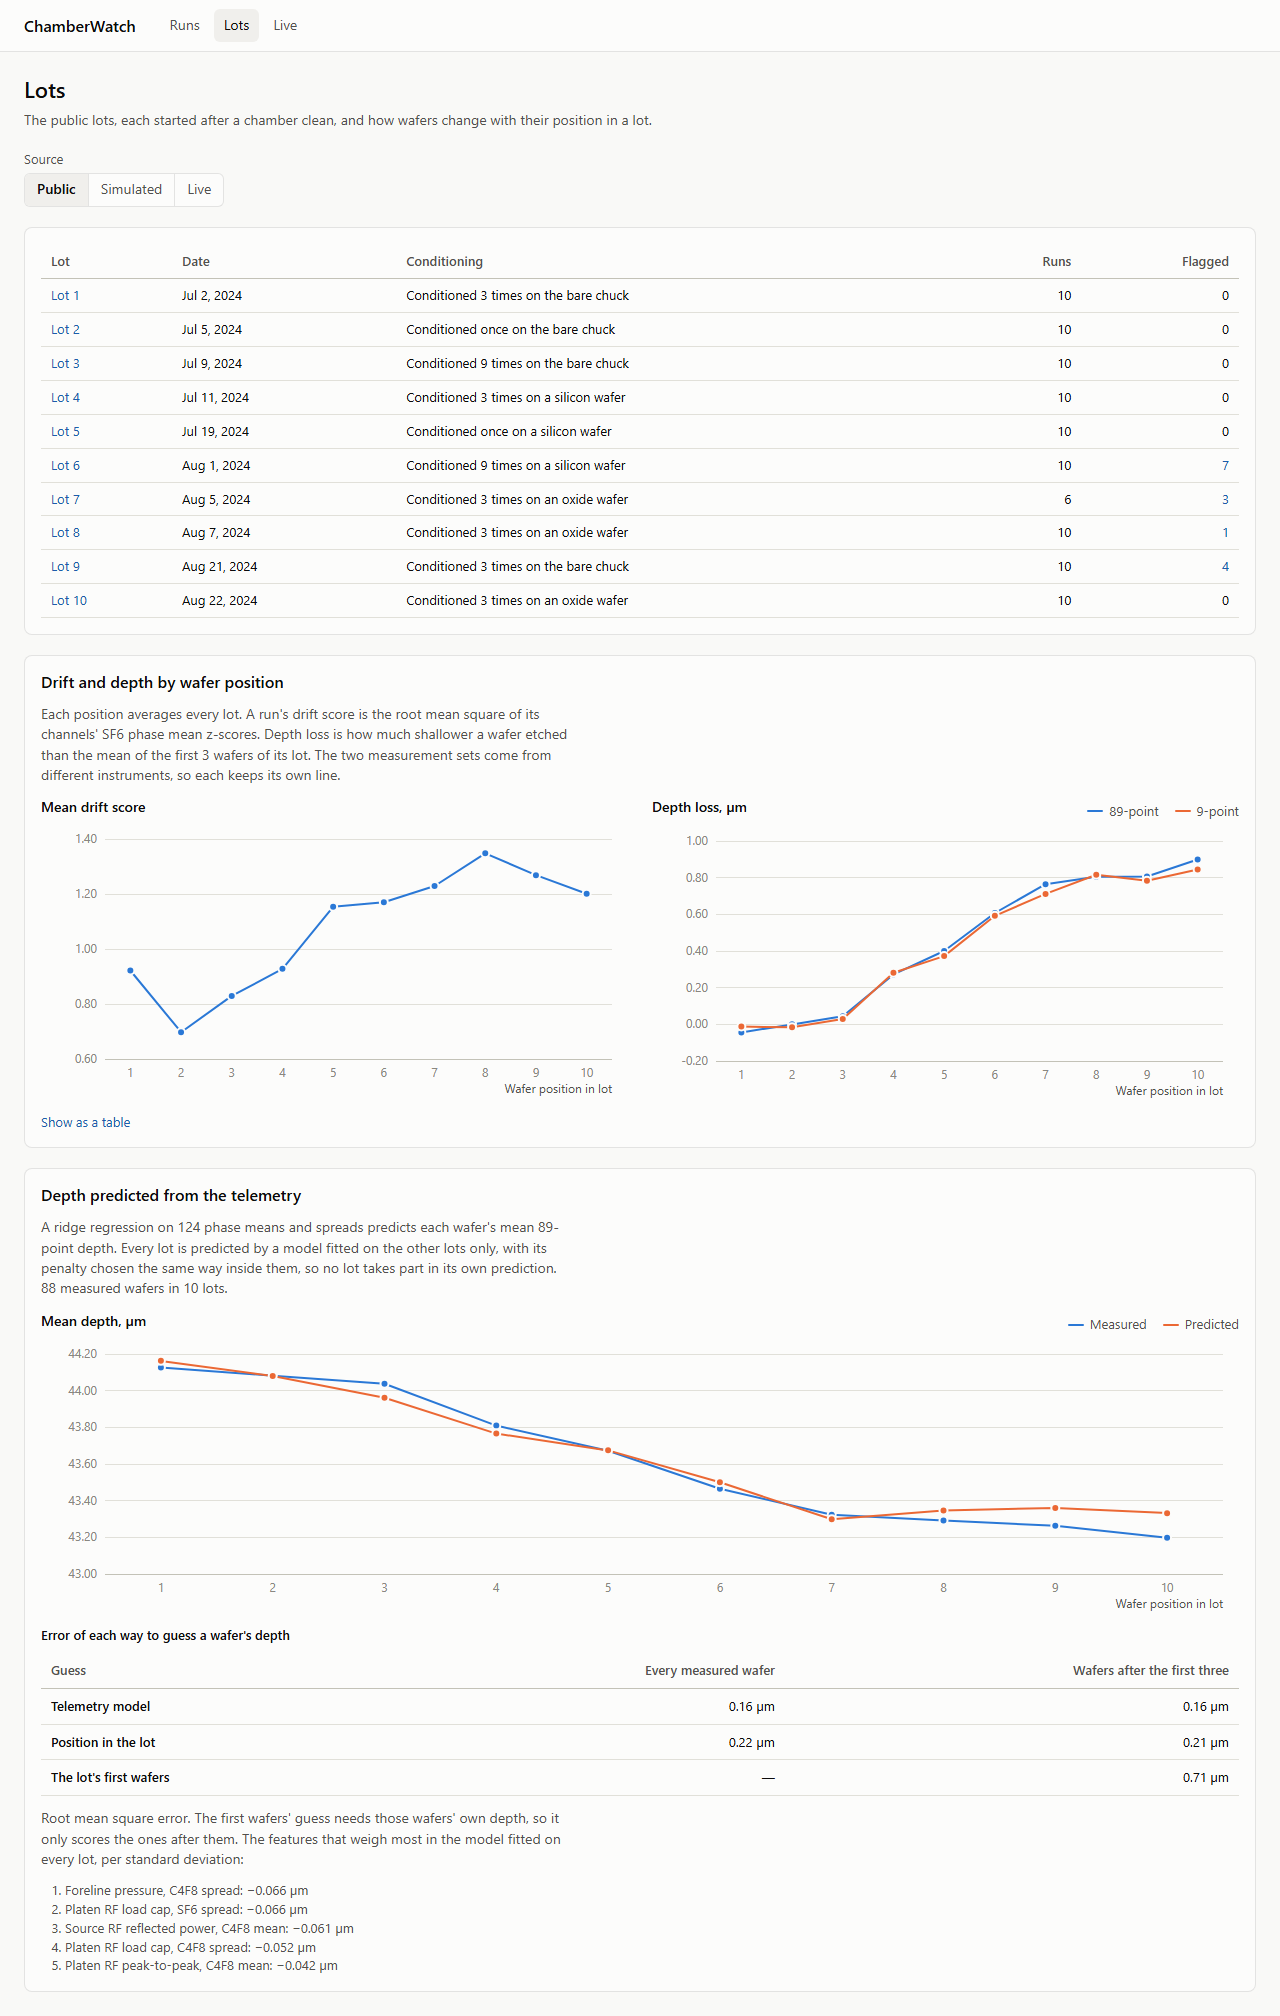
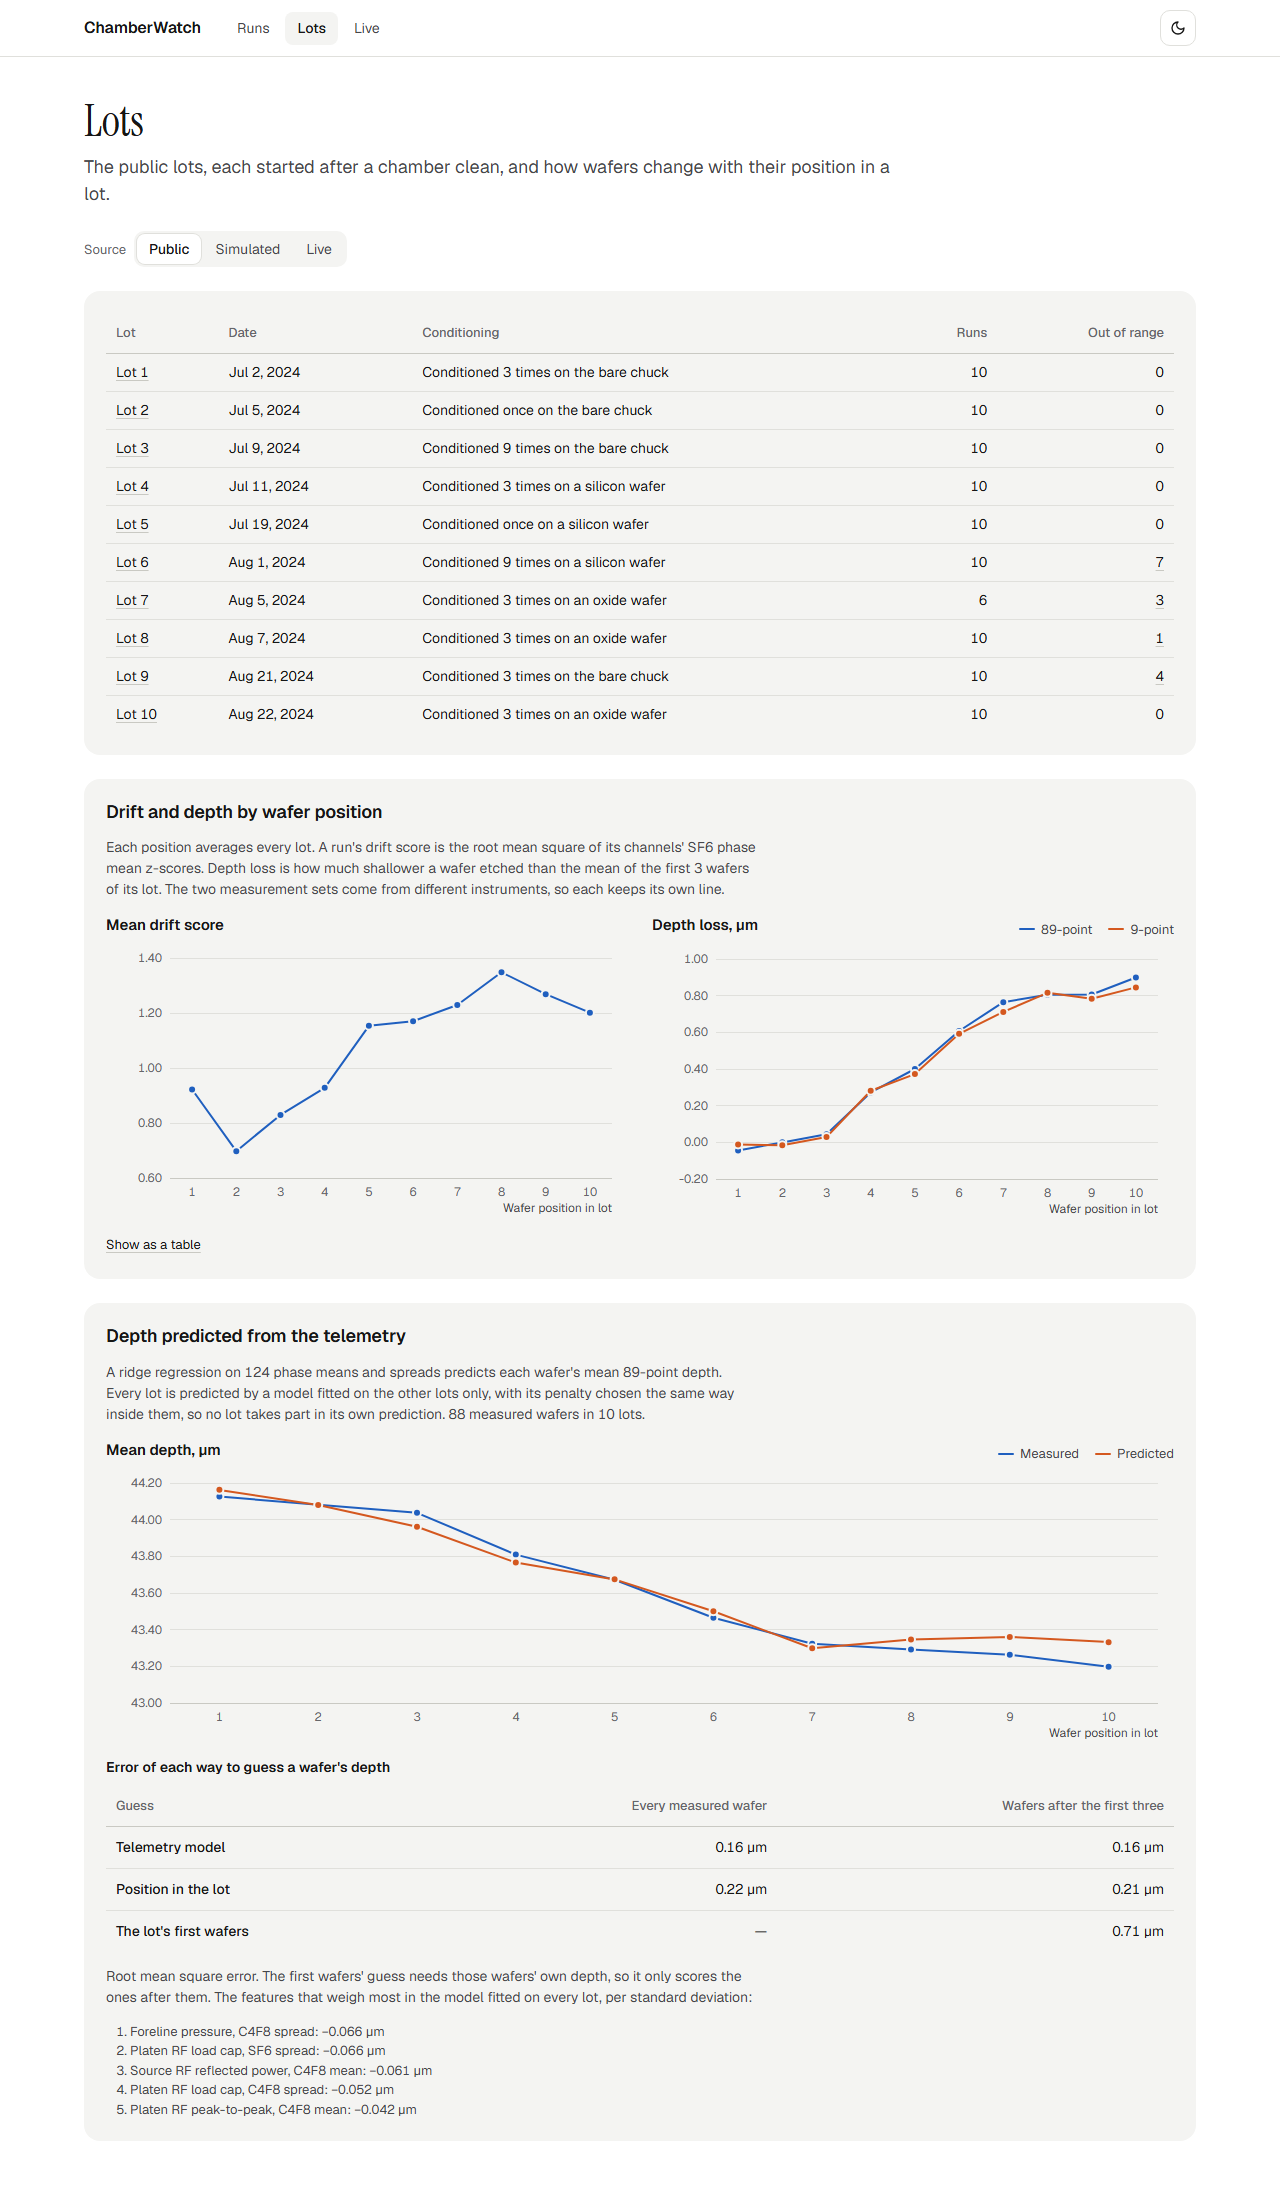
Retake the README screenshots and describe the new Runs page
run-55.png, lots.png and simulated-run.png come from
e2e/screenshots.spec.ts again, in the new style. docs/images/ui-makeover
holds the before and after shots of the Runs page for the pull request.
docs/DESIGN.md lists the calls the Runs page makes and what it opens on.
live.gif still shows the old style; it needs the running app and the
chamber simulator to film again.

diff --git a/docs/DESIGN.md b/docs/DESIGN.md
@@ -38,8 +38,9 @@ With no command the jar serves the API on port 8080, with the OpenAPI descriptio
 
 | Screen | Call |
 |---|---|
-| Runs table, lot filter | `GET /api/lots` |
-| Runs table | `GET /api/runs?source=PUBLIC&lot=6&flagged=true` |
+| Runs page, lot dates and conditioning | `GET /api/lots` |
+| Runs page: the answer, the lot cards and the table | `GET /api/runs?source=PUBLIC` |
+| Runs page, drift along the lots | `GET /api/lots/{lotId}/drift?phase=SF6` for each lot of the source |
 | Run page header, ranked channels, evidence | `GET /api/runs/{runId}` |
 | Run page chart | `GET /api/runs/{runId}/channels/{channel}/trace?fromCycle=1&toCycle=100&maxPoints=2000` |
 | Run page, mark good or bad | `PUT /api/runs/{runId}/label` with `{"label": "BAD"}`, then `GET /api/refreshes/{refreshId}` until it is done |
@@ -70,7 +71,7 @@ The lot call returns every channel that has a good-run band on the phase mean. E
 
 ### Web app
 
-`frontend/` is a React app that reads only the HTTP API. Every response goes through a zod schema where it enters the app, so a field the server stops sending fails in one place instead of deep inside a page. The charts are SVG, with no chart library. The run page draws each trace bucket's lowest and highest reading against the good-run band, with the excursions shaded. The lot page plots a channel's phase mean by wafer against the band, with the fitted line dashed where it projects. The wafer page places every measured site on the wafer, shaded by depth on one blue ramp. The lots page puts the drift score and the depth loss by wafer position in two charts, never on two axes of one. The pointer or the arrow keys read one value at a time, and every chart has a table view. The runs and lots pages switch between the public wafers and the simulated ones, and a simulated run's page opens with the fault the simulator put in, what it did to the channel, and whether the detectors named that channel first and how long after the fault began. `npm run e2e` builds the app and drives the built bundle in Chromium, answering API calls with responses captured from the real API, so the tests need no backend.
+`frontend/` is a React app that reads only the HTTP API. Every response goes through a zod schema where it enters the app, so a field the server stops sending fails in one place instead of deep inside a page. The charts are SVG, with no chart library. The run page draws each trace bucket's lowest and highest reading against the good-run band, with the excursions shaded. The lot page plots a channel's phase mean by wafer against the band, with the fitted line dashed where it projects. The wafer page places every measured site on the wafer, shaded by depth on one blue ramp. The lots page puts the drift score and the depth loss by wafer position in two charts, never on two axes of one. The pointer or the arrow keys read one value at a time, and every chart has a table view. The runs page opens on the answer, worked out in the browser from the runs and the lots by a pure function (`frontend/src/summary.ts`): how many runs are out of range and in which lots, the lot with the most of them (named only when no other lot ties it), and which channel each out-of-range run named first; below it sit one card per lot that needs a look, the drift of every lot by its last wafer, and the full table one tab away. The runs and lots pages switch between the public wafers and the simulated ones, and a simulated run's page opens with the fault the simulator put in, what it did to the channel, and whether the detectors named that channel first and how long after the fault began. `npm run e2e` builds the app and drives the built bundle in Chromium, answering API calls with responses captured from the real API, so the tests need no backend.
 
 ### Java call sites
 
@@ -157,7 +158,7 @@ The dominant reads:
 | root | Application, properties, the command-line commands | Spring Boot | Object-oriented shell |
 | `chamber-sim/src` | The C chamber: recipe state machine, interlocks, hidden chamber state, faults, the JSON-lines protocol and the socket | none | Procedural C11, with the model kept apart from the socket: everything but `main.c` is a function of state |
 | `frontend/src/pages`, `charts` | Pages and charts | React | Functional reactive: state in hooks, everything shown derived from what the API answered |
-| `frontend/src/api`, `format.ts` | Parsing at the boundary, formatting | zod | Functional: pure parsers and formatters |
+| `frontend/src/api`, `format.ts`, `summary.ts` | Parsing at the boundary, formatting, the runs page's answer | zod | Functional: pure parsers, formatters and calculations |
 
 Dependencies point one way: `api` to `health`, `store`, `detect` and `recipe`; `health` and `store` to `detect` and `recipe`; `detect` and `sim` to `recipe`. `ingest` uses `store`, `health`, `detect`, `recipe` and `sim`, `store` reads `sim`'s fault records to store them, and `eval` uses `sim`, `detect` and `recipe`. `depth` imports nothing but the language, and `api` hands it the rows `store` read. `spectra` reads `recipe` only, and `ingest` drives it. `live` reads `recipe`, `sim`'s fault records and `store`, and goes through the same aligner and store as every other run. The pure packages import nothing from Spring or JDBC, and the only framework type anywhere near them is the netCDF file that `ingest` and `spectra` each keep inside one reader.
 
